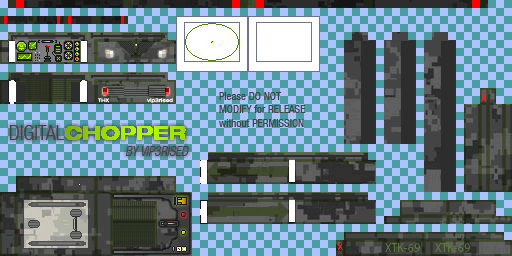
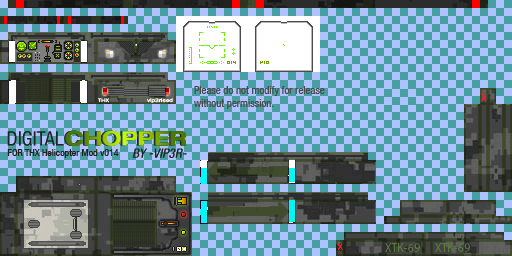
removed windshield frame

diff --git a/project/src-thx/net/minecraft/src/ThxModelHelicopter.java b/project/src-thx/net/minecraft/src/ThxModelHelicopter.java
@@ -21,9 +21,9 @@ public class ThxModelHelicopter extends ThxModel
     public ModelRenderer rotor2;
     public ModelRenderer rotor3;
     
-    public ModelRenderer cockpit1;
-    public ModelRenderer cockpit2;
-    public ModelRenderer cockpit3;
+    //public ModelRenderer cockpit1;
+    //public ModelRenderer cockpit2;
+    //public ModelRenderer cockpit3;
 
     public ModelRenderer windshield;
     public ModelRenderer bottom;
@@ -154,6 +154,7 @@ public class ThxModelHelicopter extends ThxModel
             rotor3.addBox(-length/2f, -height/2f, -width/2f, (int)length, (int)height, (int)width);
             rotor3.setRotationPoint(4f * centerScale, -11f * centerScale, 0f * centerScale);
         }
+        /*
         cockpit1:
         {
             // cockpit1 right vertical support
@@ -187,6 +188,7 @@ public class ThxModelHelicopter extends ThxModel
             cockpit3.rotateAngleX = PI / 2f;
             cockpit3.rotateAngleZ = PI / 2f;
         }
+        */
         windshield:
         {
             float length = 9f;
@@ -215,9 +217,9 @@ public class ThxModelHelicopter extends ThxModel
         rightWall.render(x2scale);
         
         // windshield
-        cockpit1.render(scale);
-        cockpit2.render(scale);
-        cockpit3.render(scale);
+        //cockpit1.render(scale);
+        //cockpit2.render(scale);
+        //cockpit3.render(scale);
         windshield.render(x2scale);
         
         // rotor supports
